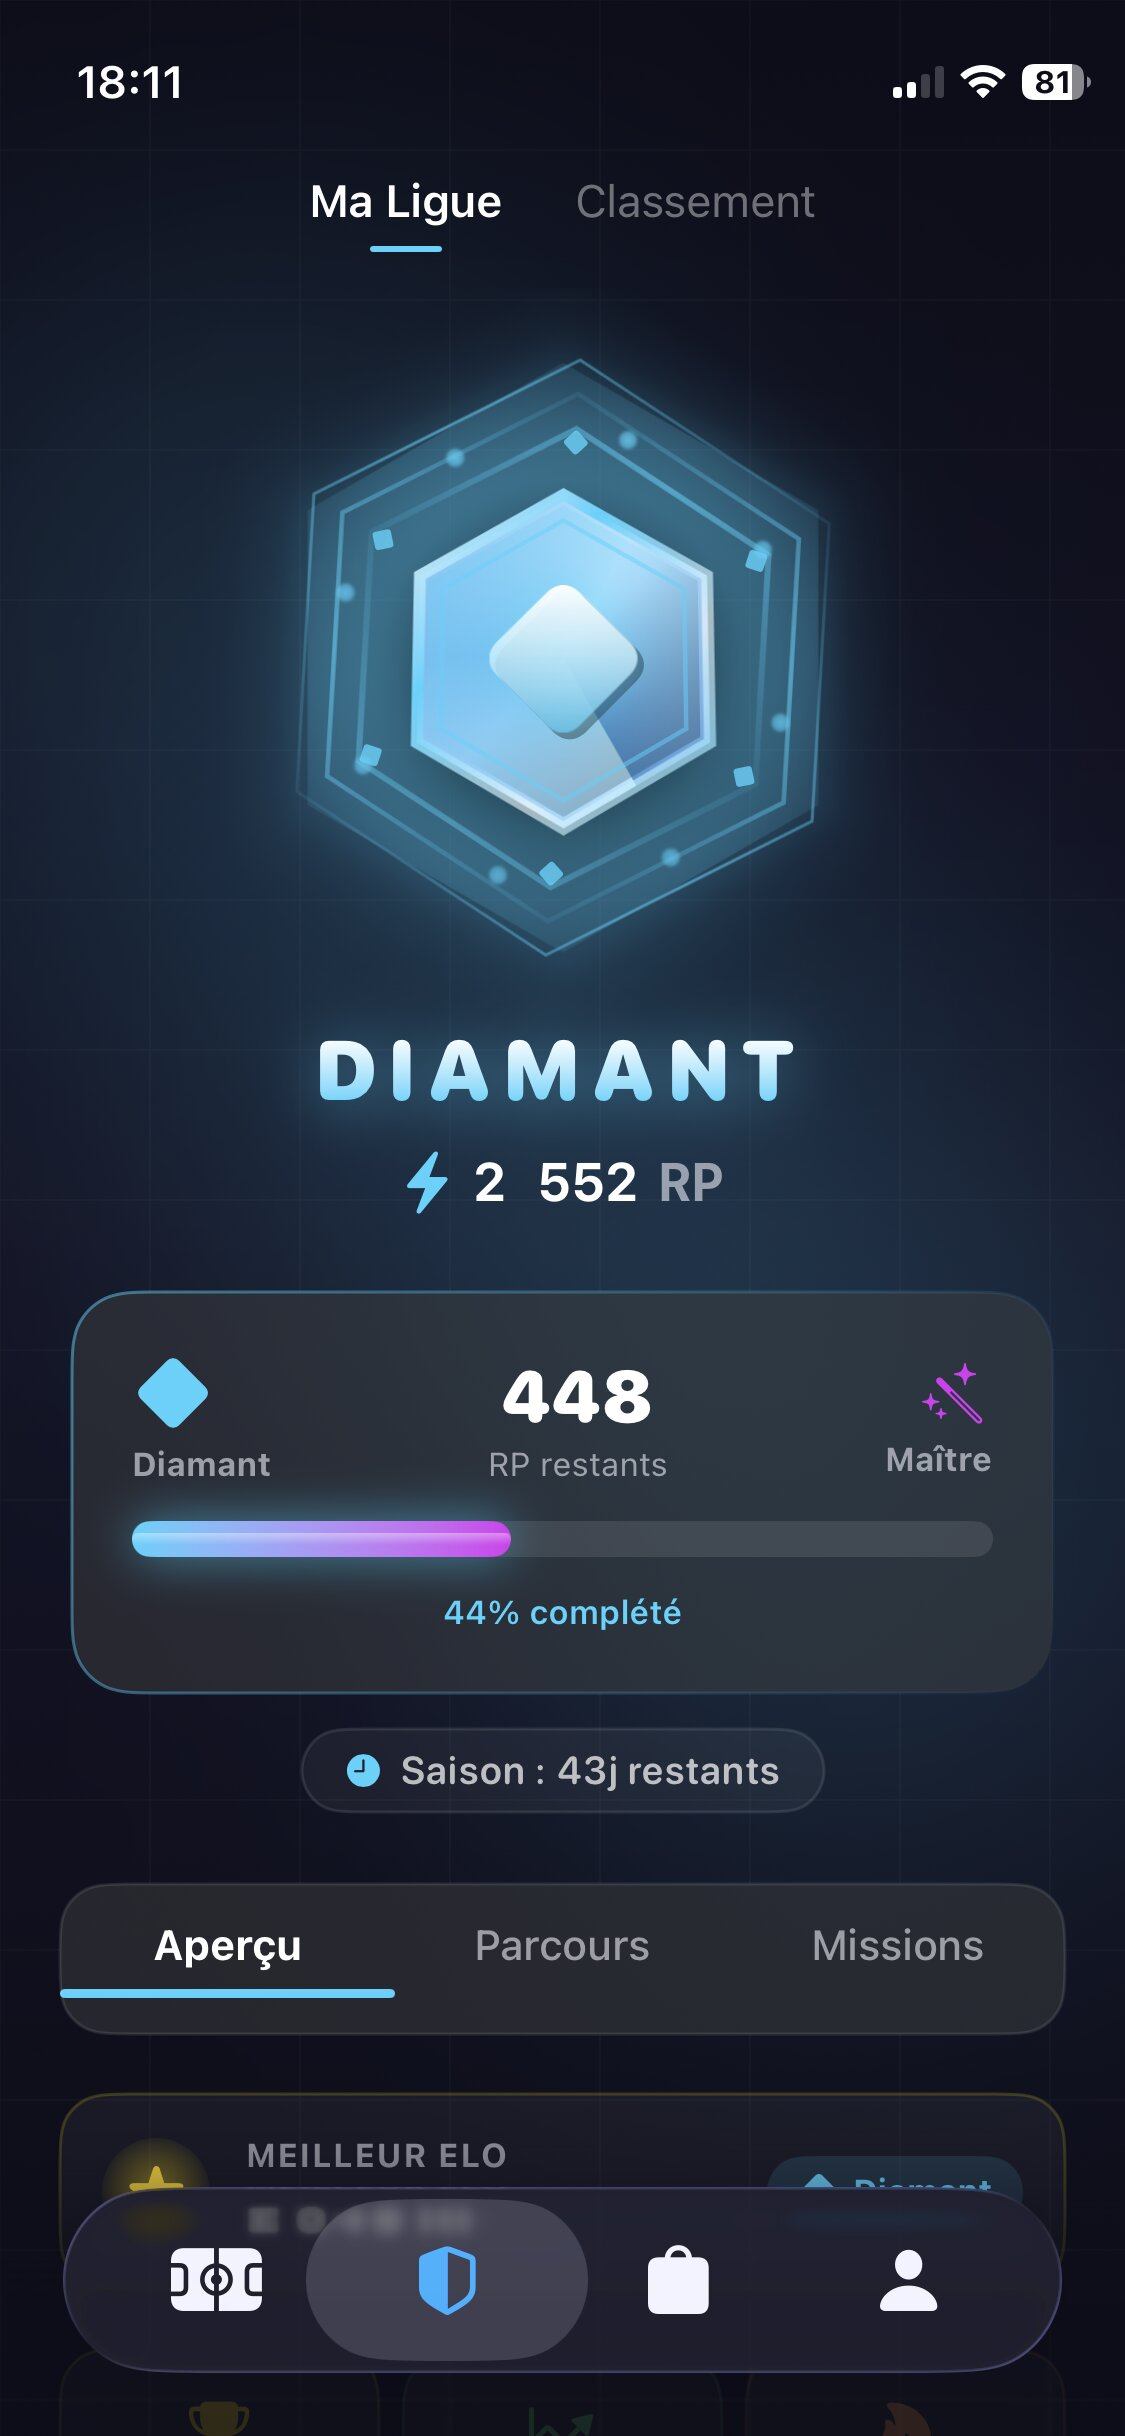
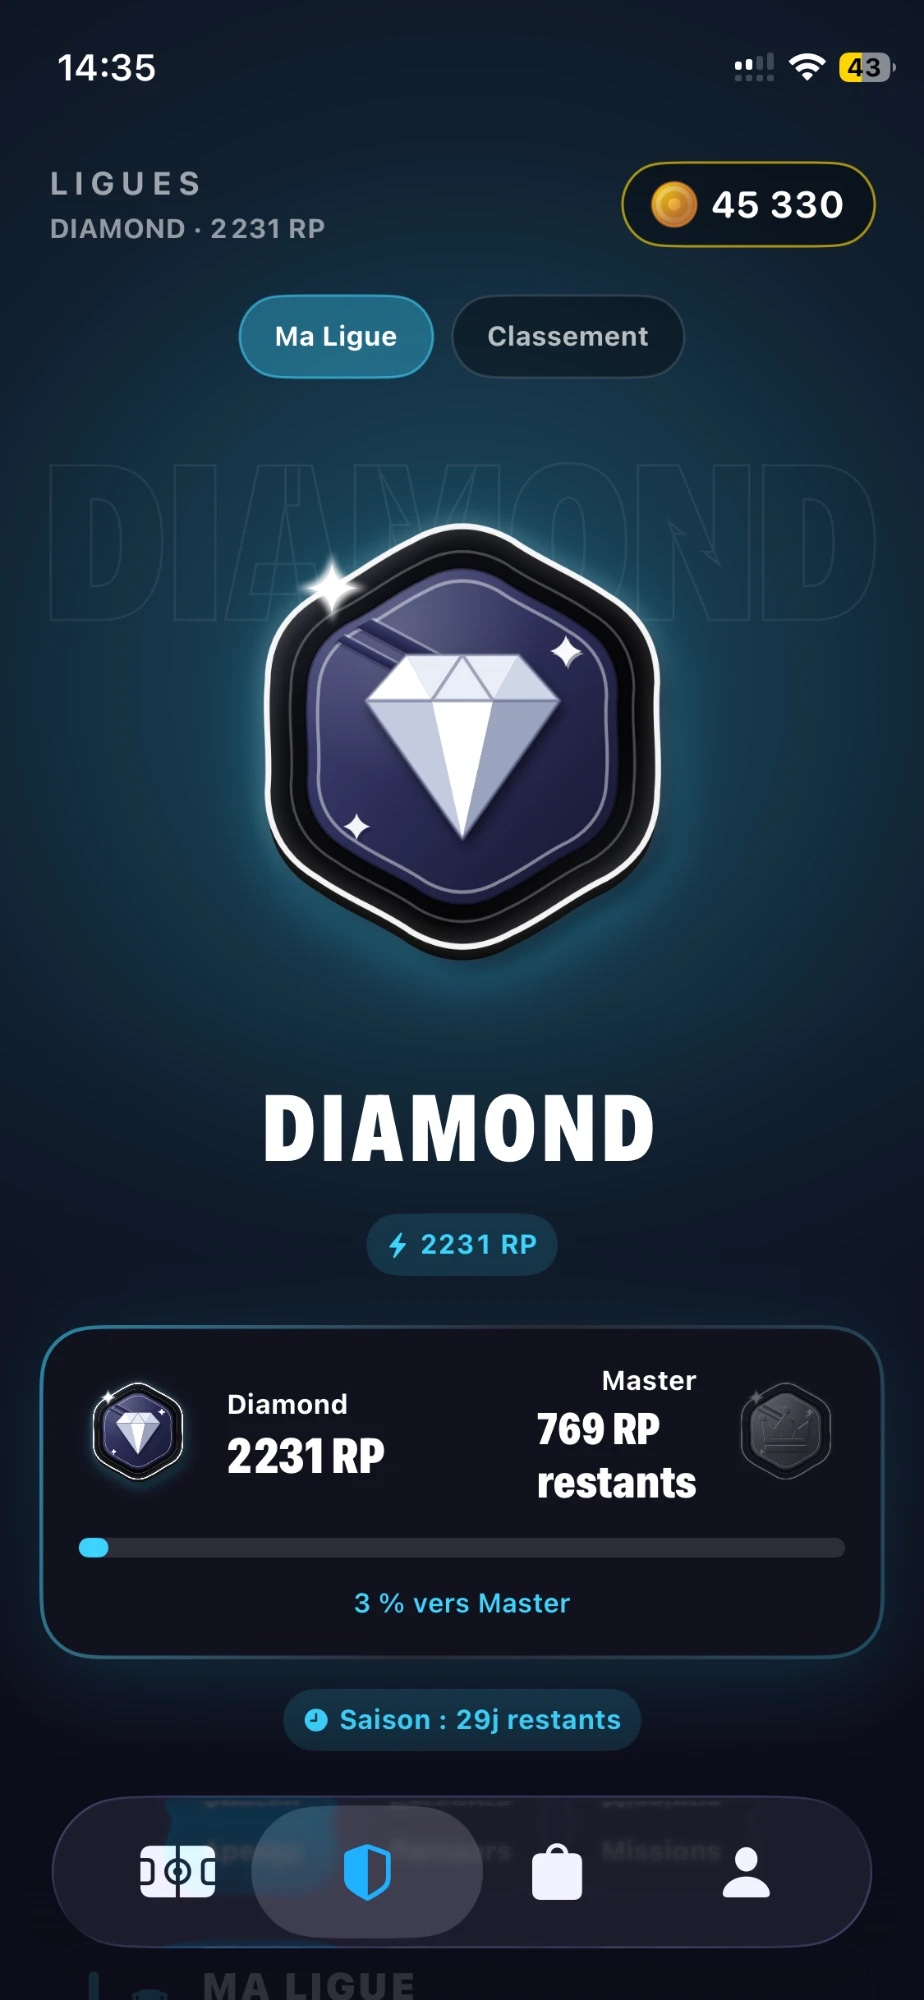
Nouvelle capture écran Ligues (Diamond) + cache-busting

diff --git a/index.html b/index.html
@@ -374,7 +374,7 @@
               <div class="ft-phone-frame">
                 <div class="ft-phone-notch"></div>
                 <div class="ft-phone-screen">
-                  <img src="./assets/screen-league.jpg" alt="Ligues et classement" />
+                  <img src="./assets/screen-league.jpg?v=2" alt="Ligues et classement — rang Diamond" />
                 </div>
               </div>
               <div class="feature-phone-glow feature-glow--violet"></div>
@@ -458,7 +458,7 @@
                 <img src="./assets/screen-matches-3.jpg?v=2" alt="Matchs passés" class="gallery-screen active" data-index="0" />
                 <img src="./assets/screen-bet.jpg" alt="Paris" class="gallery-screen" data-index="1" />
                 <img src="./assets/screen-cards-1.jpg?v=2" alt="Ma collection" class="gallery-screen" data-index="2" />
-                <img src="./assets/screen-league.jpg" alt="Ligues" class="gallery-screen" data-index="3" />
+                <img src="./assets/screen-league.jpg?v=2" alt="Ligues — rang Diamond" class="gallery-screen" data-index="3" />
                 <img src="./assets/screen-shop.jpg?v=2" alt="Boutique — Pack Or" class="gallery-screen" data-index="4" />
                 <img src="./assets/screen-profile.jpg" alt="Profil" class="gallery-screen" data-index="5" />
               </div>
